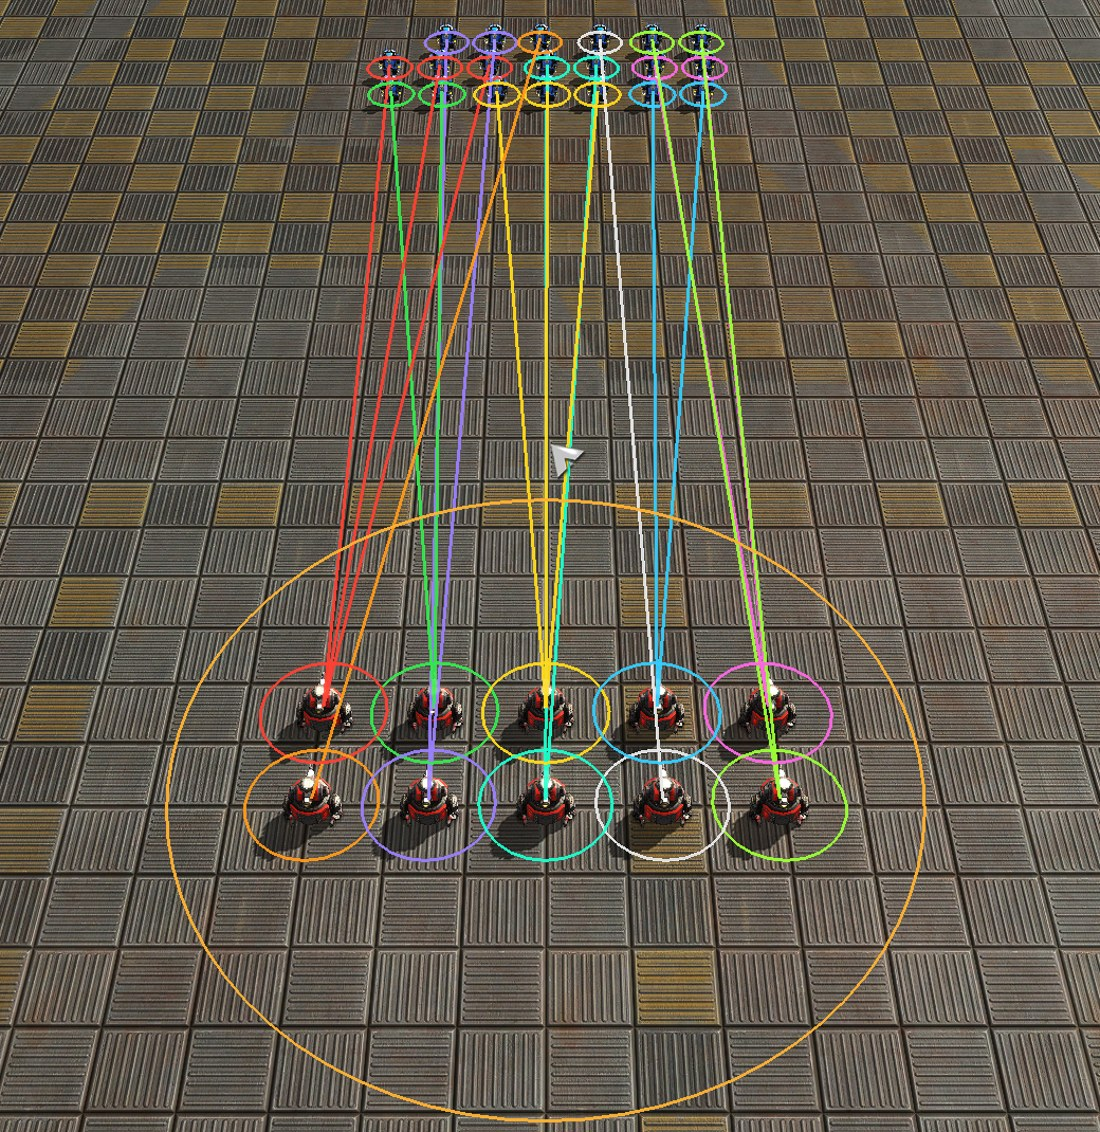
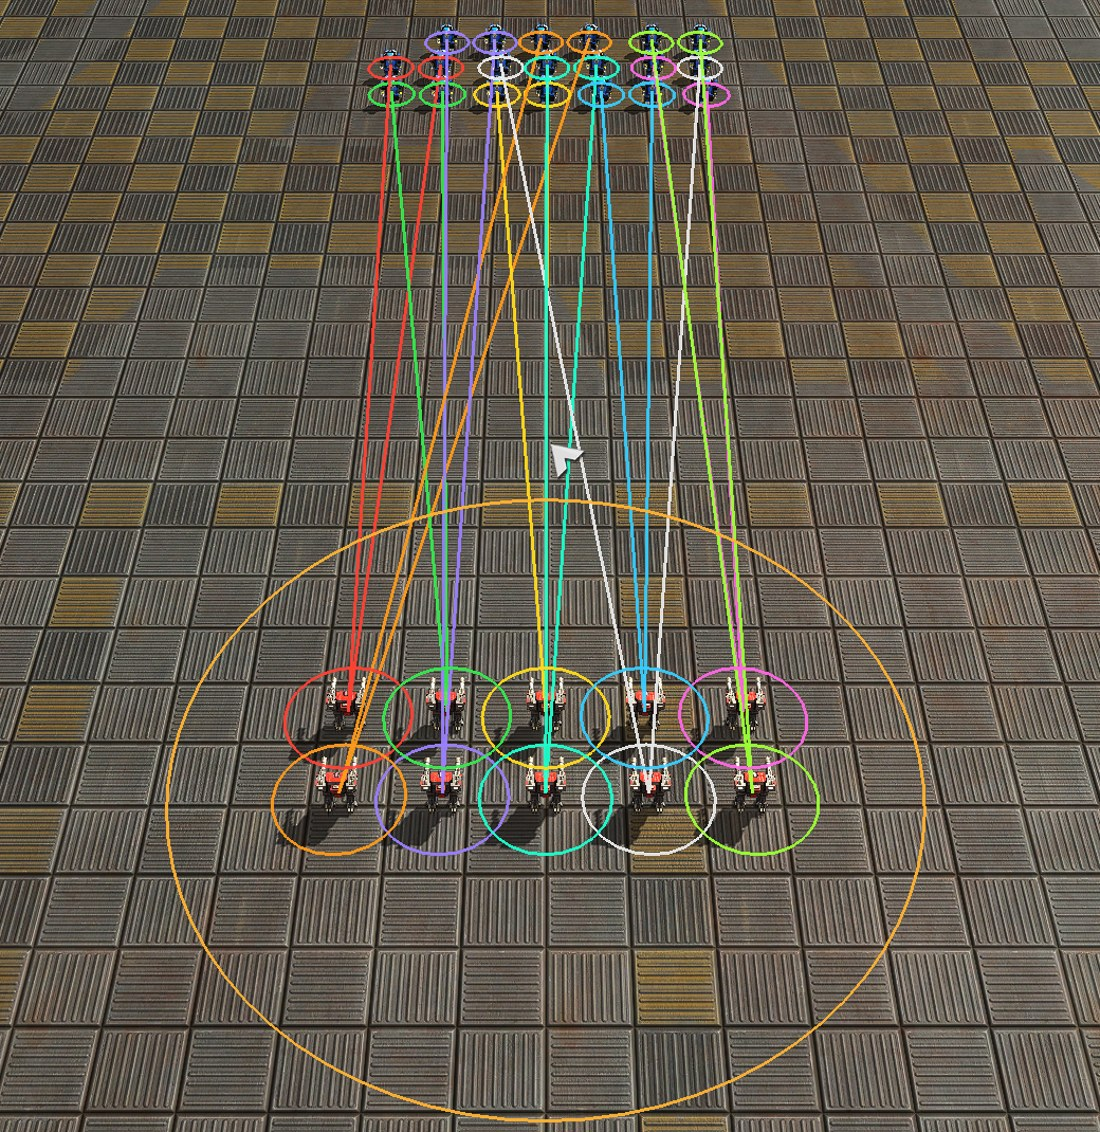
XS split attack: only the damage per second of the units is spread evenly over the enemies (the same share for each, no health, no buffer); the health calculation stays with XF; texts, specs and picture adjusted
Claude-Session: https://claude.ai/code/session_01QeCYKn7fqMf4y4C8NkAq1r

Changed region(s): [[0.2164, 0.0, 0.7727, 0.773]]

diff --git a/specs/blueprinter.md b/specs/blueprinter.md
@@ -91,11 +91,11 @@ Buttons **XL**, **XR**, **XC** (`/bp_carpet [line|rect|circle]`, Ctrl+Alt+K = XL
 
 **Split attack (XS) and focus attack (XF)**, `areaMode = "split"` / `"focus"` of `Shared.newAreaAttack` (`SPLIT_MODES`; circle: press = center, distance = radius). The selected armed units attack the visible enemies in the circle. A snapshot: the targets are those in the circle at the moment of release (`enemiesIn`: `Spring.GetUnitsInCylinder` with `Spring.ENEMY_UNITS`, so only what the player sees; not Gaia; at most `SPLIT_MAX_TARGETS` = 150, the ones nearest to the center; at most `SPLIT_MAX_UNITS` = 300 units). The preview draws the circle and a frame around every target. Both modes share the firepower, the orders and the check; they differ in the plan.
 
-- **Goal:** XS spreads the firepower evenly: every target gets about the damage it needs to die, all at the same time. XF kills as fast as possible: one target after the other, nearest first, with all the units it needs.
+- **Goal:** XS spreads the damage per second of the units evenly over the enemies (health is not looked at): every enemy gets the same share. XF kills as fast as possible: one target after the other, nearest first, with all the units it needs.
 - **Firepower** (`weaponsAgainst`, cached per pair of unit defs): per weapon damage against the armor class of the target (`damages[ud.armorType]`) × projectiles × salvo size = damage of one volley, divided by `reload` = DPS. Beam lasers count like the others. Not counted: paralyzer weapons, stockpile weapons (nukes), the D-Gun (`type == "DGun"`), area damage (it is not added up, it only helps in the game). Anti-air weapons (damage against `vtol` above the default damage) only count against aircraft, all others only against ground targets (`canAttackGround`). A unit that cannot move (speed 0) only counts the weapons that reach the target (`splitDps`); a mobile unit walks into range.
-- **Need of a target:** `hp * SPLIT_BUFFER + 1` (buffer 1.15 = 15 %); a unit takes whole volleys, so a weak target costs a unit one volley.
+- **Need of a target (XF only):** `hp * SPLIT_BUFFER + 1` (buffer 1.15 = 15 %); a unit takes whole volleys, so a weak target costs a unit one volley.
 - **Order of the targets:** mobile enemies first, buildings after them, each group nearest to the center of the attacking group first.
-- **Plan XS** (`splitPlan`): time horizon H = total need / total mean DPS of the units: every unit has H seconds. Target by target the nearest units take volleys (a volley costs `volley / dps` seconds of the unit's time, at least one volley while time is left) until the need is covered; at most `SPLIT_QUEUE` = 8 targets per unit. At the end every unit gets one more target (the nearest uncovered one, else the nearest one it can hit). Everything dies at about time H; with 20 light units against 10 heavy ones every heavy unit gets about two.
+- **Plan XS** (`splitPlan`): share = total DPS of the units (for every unit the mean over the targets it can hit) / number of targets. Target by target (mobile first, nearest to the group first) the nearest free units are taken while the DPS so far plus half of the DPS of the next unit stays within the share (the first unit is always taken); a unit that fits no share goes to the target with the least DPS so far. Every unit gets one more target behind its own (the nearest other one it can hit), so nothing stands idle while an enemy lives. With 20 light units against 10 enemies every enemy gets two, whatever its health. Without a unit for every target (10 units, 13 enemies) the nearest targets get one unit each; the others come with the next plan.
 - **Plan XF** (`focusPlan`): target by target the nearest free units are taken until their damage within `SPLIT_KILL_TIME` = 3 seconds (at least one volley each) covers the need: a weak target takes one unit, a strong one many, and the units start on it. A target for which no free unit is left is uncovered; every unit goes on to the uncovered targets after its own, in the same order, so the whole group concentrates on one target after the other. Free units that nobody needed start on the nearest target. At the end every unit gets one more target it can hit. With 20 light units against 10 heavy ones that need five units each, four targets get five units each and the other six come next.
 - **Orders:** `CMD.ATTACK` on the unit ID of the first target, the rest with the option `shift` (a queue). A unit that has nothing to hit is dropped.
 - **Check** (`splitStep`, every `SPLIT_EVERY` = 30 frames, called from `A:step`): dead and no longer visible targets are forgotten; the attack ends when none is left ("Split attack finished" / "Focus attack finished") or after 10 minutes. A new plan for all units that are left (`splitApply`, current health and positions) is made when a unit has finished its queue while enemies live (both modes) and, with XF, when a target has died (a weak target must not get the whole group). A unit that got another order from the player (first command is not `ATTACK`) or was stopped while one of its targets lives is dropped from the attack.

diff --git a/BluePrinter/README.md b/BluePrinter/README.md
@@ -73,10 +73,10 @@ The button **Q** (Queue order, in the column next to the menu between A and C) d
 Spreads the bombs and shots of all selected units evenly over an area. Select bombers, artillery, rocket launchers or nukes and press one of the buttons next to the menu: **XL** (a line), **XR** (a rectangle) or **XC** (a circle; drag from the center outwards). Then drag the shape on the map. Each unit gets its own target inside the shape: the bombers first form up side by side (for the line: beside it, facing it) and, once all are in position, attack at the same moment as a front; artillery and rockets fire at their target. Right click cancels. Also Ctrl+Alt+K (= XL) or `/bp_carpet [line|rect|circle]`.
 
 ## Split attack and focus attack (experimental)
-Both use the **firepower** of the selected units against the enemies in a circle. Select your armed units, press **XS** or **XF** (below the area attack buttons) and drag a circle from the center outwards over the enemies you see. The damage per second of your units is compared with the health of the enemies (+ 15 %). Mobile enemies come first, buildings after them. Only the enemies in the circle at the moment you release the mouse button count. Area damage, the commander's D-Gun and paralyzer weapons are not counted. A new order for a unit takes it out of the attack. Right click cancels.
+Both use the **firepower** of the selected units against the enemies in a circle. Select your armed units, press **XS** or **XF** (below the area attack buttons) and drag a circle from the center outwards over the enemies you see. Only the enemies in the circle at the moment you release the mouse button count. Area damage, the commander's D-Gun and paralyzer weapons are not counted; the damage per second of a unit is taken against the armor of the enemy. A new order for a unit takes it out of the attack. Right click cancels.
 
-- **XS (split attack)** spreads the firepower **evenly**: every enemy gets about the damage it needs to die, all at the same time (20 light units against 10 heavy ones: about two on each). Units that are not needed keep shooting at the rest. Also `/bp_carpet split`.
-- **XF (focus attack)** kills **as fast as possible**: the nearest enemy first, with as many units as it needs to die in about 3 seconds (a weak one gets a single unit, a strong one many); the units that are left go on to the next one. When an enemy dies the units are assigned again. Also `/bp_carpet focus`.
+- **XS (split attack)** spreads the damage per second of your units **evenly** over the enemies: every enemy gets the same share, whatever its health (20 units against 10 enemies: two on each; the units nearest to an enemy take it). When a unit has nothing left to do the units are assigned again. Also `/bp_carpet split`.
+- **XF (focus attack)** kills **as fast as possible**: mobile enemies first, buildings after them, the nearest first, each with as many units as it needs to die in about 3 seconds (its health + 15 % against the damage per second of your units: a weak one gets a single unit, a strong one many); the units that are left go on to the next one. When an enemy dies the units are assigned again. Also `/bp_carpet focus`.
 
 ## Chat commands
 `/bp_menu` menu on/off (auto-build and radius are buttons in the menu), `/bp_rotate`, `/bp_undo`, `/bp_clear`, `/bp_com`, `/bp_side left|right`, `/bp_scan` (re-read the list), `/bp_create` (blueprint from the selection), `/bp_mode bp|units` (switch the view), `/bp_carpet [line|rect|circle]`, `/bp_spacing <n|+|->`, `/bp_ghost [gl|wg|auto]` (state of the 3D preview).

diff --git a/docs/screenshots.md b/docs/screenshots.md
@@ -18,7 +18,7 @@ Notes on what each picture shows, so they can be retaken after a change of the l
 | `level-editor-capture-the-flag.jpg` | Capture the Flag page **while the test runs** (map "Full Metal Plate 1.7", flat; taken after Start, cut to x 940 ... 3000, y 0 ... 1150): team 0 (blue) with two collection points on the left (thick rings) and three flag points, team 1 (red) with one collection point on the right and three flag points (thin rings); beside every flag three units of the other team (placed outside the capture radius, fire state hold fire); a blue tank has already taken a red flag and drives to a collection point (the pod follows it). The score line at the top shows 0/3 for both teams. |
 | `level-editor-reclaim-the-fame.jpg` | Reclaim the Fame page **while the test runs** (map "Hooked 1.1", taken 30 seconds after Start so that the chat lines have not covered the score line, cut to x 940 ... 3000, y 0 ... 1260): the page with the points factors 100 / 200 / 500, score limit 2000, the four buttons of the builders that score, Stop, the size filter and the tiles of the crystals at the bottom; on the map five crystals (2 small, 1 medium, 2 large) with gold rings, the factor over each ("x1", "x2", "x5"), builders reclaiming the large and a small crystal, the score line at the top. |
 | `level-editor-arena.jpg` | Arena page (button A) after Generate (map "Full Metal Plate 1.7", flat; `test-data\tools\arena_test.ps1 -Shots`, window 2400 x 1300, cut to x 500 ... 2400, y 0 ... 1120): radius 1000, teams 0 to 2 on with a list of units each and count 50, the row of C buttons, the Arena Point (red circle) and the ring of the radius; three armies of 50 units as rectangles at equal angles, facing the point. |
-| `split-attack.jpg` | Split attack (XS), `test-data\tools\arena_test.ps1 -Widget zz_split_shot.lua` with `MODE = "split"` (map "Full Metal Plate 1.7", window 2400 x 1300, interface hidden, scaled to 1600 pixels width): 20 light units (Peewee, blue) against 10 heavier ones (Can, red) 900 Elmo apart, just after the order. The test widget draws one color per enemy with a ring around it, a line from every attacker and a ring of the same color around the attacker (the plan, without the surplus target at the end of each queue); the big circle is the dragged circle. |
+| `split-attack.jpg` | Split attack (XS), `test-data\tools\arena_test.ps1 -Widget zz_split_shot.lua` with `MODE = "split"` (map "Full Metal Plate 1.7", window 2400 x 1300, interface hidden, scaled to 1600 pixels width): 20 light units (Peewee, blue) against 10 heavier ones (Thud, red) 900 Elmo apart; every enemy gets two, just after the order. The test widget draws one color per enemy with a ring around it, a line from every attacker and a ring of the same color around the attacker (the plan, without the surplus target at the end of each queue); the big circle is the dragged circle. |
 | `focus-attack.jpg` | Focus attack (XF), the same widget with `MODE = "focus"` (enemy: Thud): four enemies get five units each (colors), the other six (gray rings) come next. |
 | `arena-lineup.jpg` | The same armies with the interface hidden (whole screen, scaled to 1600 pixels width): shows only the formation. |
 | `level-editor-scenario.jpg` | Scenario page (button I) of a level with a battle: title "Hold the Plateau", roles, tech, AI, win condition, start resources (the picture is from before 2026-10-28; the page has no roles, tech, AI and resources any more, they moved to the page T), grace period 2:30, ID; the map shows the plateau and the Cortex base. |

diff --git a/specs/level-editor.md b/specs/level-editor.md
@@ -92,7 +92,7 @@ Tiles, sorting, renaming, trash and format: [Shared code](shared-code.md), "Tile
 
 ### 4.1 Button column (far right; `headerRects`, rectangles with `side = true`; clicks through `sideAt`)
 
-Top to bottom: **V** (collapse / expand the menu; with a collapsed menu V stays in the corner), **O** (settings), **I** ([scenario info](scenario-builder.md)), **T** ([teams](teams.md)), **?** (help), a free slot, **P** (Place), **G** (Generate), **A** ([Arena](arena.md)), **TD**, **CF**, **RF** (the game modes; green while the mode is on, lighter when its page is open), a free slot, the experimental area attacks **XL**, **XR**, **XC** (line, rectangle, circle; `Shared.newAreaAttack`, [Shared code](shared-code.md); the editor ends other modes when one is armed and the other way round), a free slot, **XS** (split attack: the firepower of the selected units is spread evenly over the visible enemies in a circle) and **XF** (focus attack: they kill the enemies one after the other; [BluePrinter](blueprinter.md), "Area attacks"; `areaMode = "split"` / `"focus"`), a free slot, **FX** / **FD** (rectangle: buildings become indestructible / destructible again; `delMode = "fix"` or `"unfix"`, `led|fix|x1|z1|x2|z2|on`, one history step, operation `fix`; only buildings, i.e. units with speed 0).
+Top to bottom: **V** (collapse / expand the menu; with a collapsed menu V stays in the corner), **O** (settings), **I** ([scenario info](scenario-builder.md)), **T** ([teams](teams.md)), **?** (help), a free slot, **P** (Place), **G** (Generate), **A** ([Arena](arena.md)), **TD**, **CF**, **RF** (the game modes; green while the mode is on, lighter when its page is open), a free slot, the experimental area attacks **XL**, **XR**, **XC** (line, rectangle, circle; `Shared.newAreaAttack`, [Shared code](shared-code.md); the editor ends other modes when one is armed and the other way round), a free slot, **XS** (split attack: the damage per second of the selected units is spread evenly over the visible enemies in a circle) and **XF** (focus attack: they kill the enemies one after the other; [BluePrinter](blueprinter.md), "Area attacks"; `areaMode = "split"` / `"focus"`), a free slot, **FX** / **FD** (rectangle: buildings become indestructible / destructible again; `delMode = "fix"` or `"unfix"`, `led|fix|x1|z1|x2|z2|on`, one history step, operation `fix`; only buildings, i.e. units with speed 0).
 
 The Place / Generate menus are `kind = "top"` rectangles; `headerRowCount` knows only the rows of the menu.
 

diff --git a/README.md b/README.md
@@ -108,17 +108,17 @@ More in [LAN Play](docs/lan-play.md).
 
 More in the [BluePrinter usage](docs/blueprinter-usage.md#area-attacks-experimental).
 
-**Split attack and focus attack**: use the *firepower* of the selected units against the enemies in a circle. Select armed units, press the button, drag a circle over the enemies you see. The damage per second of your units is compared with the health of the enemies (+ 15 %).
+**Split attack and focus attack**: use the *firepower* of the selected units against the enemies in a circle. Select armed units, press the button, drag a circle over the enemies you see. The damage per second of your units is given out to the enemies.
 
-- **XS** spreads the firepower **evenly**: every enemy gets about the damage it needs to die, all at the same time
-- **XF** kills **as fast as possible**: the nearest enemy first, with as many units as it needs; the others go on to the next one
+- **XS** spreads the damage per second **evenly**: every enemy gets the same share, whatever its health (20 units against 10 enemies: two on each)
+- **XF** kills **as fast as possible**: the nearest enemy first, with as many units as it needs to die (its health + 15 % against the damage per second of your units); the others go on to the next one
 
 <p>
-<img src="docs/split-attack.jpg" alt="Split attack (XS): 20 light units against 10 heavier ones; every enemy has a color, the units aimed at it carry the same color (two or three per enemy)" width="365">
+<img src="docs/split-attack.jpg" alt="Split attack (XS): 20 light units against 10 heavier ones; every enemy has a color, the units aimed at it carry the same color (two on each)" width="365">
 <img src="docs/focus-attack.jpg" alt="Focus attack (XF): four enemies get five units each, the gray ones come next" width="365">
 </p>
 
-*Left: XS spreads the units evenly, two or three on each enemy. Right: XF puts five units on each of the four nearest enemies, the gray ones come next.*
+*Left: XS spreads the units evenly, two on each enemy. Right: XF puts five units on each of the four nearest enemies, the gray ones come next.*
 
 More in the [BluePrinter usage](docs/blueprinter-usage.md#split-attack-and-focus-attack-experimental).
 

diff --git a/docs/blueprinter-usage.md b/docs/blueprinter-usage.md
@@ -46,14 +46,14 @@ Spread the shots or bombs of all selected units over an area (bombers, artillery
 Use the firepower of the selected units against the enemies in a circle.
 
 - Select armed units, press **XS** or **XF** (below the area attack buttons), drag a circle from the center outwards over the enemies you see
-- **XS (split attack)** spreads the firepower **evenly**: every enemy gets about the damage it needs to die (health + 15 %), all at the same time
-- **XF (focus attack)** kills **as fast as possible**: nearest enemy first, with as many units as it needs; the others go on to the next one
-- Mobile enemies first, buildings after them; units that are not needed keep shooting at what is left; when all enemies in the circle are dead your units stop
+- **XS (split attack)** spreads the damage per second of your units **evenly** over the enemies: every enemy gets the same share, whatever its health
+- **XF (focus attack)** kills **as fast as possible**: mobile enemies first, buildings after them, the nearest first, with as many units as it needs to die (its health + 15 %); the others go on to the next one
+- When all enemies in the circle are dead your units stop; when an enemy dies or a unit has nothing left to do, the units are assigned again
 - Only the enemies in the circle at the moment you release the mouse button count; right click cancels
 
 ![Split attack](split-attack.jpg)
 
-*XS: 20 light units against 10 heavier ones, just after the order: every enemy has a color and the units aimed at it carry the same color, two or three on each. (The colors were drawn for the picture; in the game the selected units show their orders as thin lines.)*
+*XS: 20 light units against 10 heavier ones, just after the order: every enemy has a color and the units aimed at it carry the same color, two on each. (The colors were drawn for the picture; in the game the selected units show their orders as thin lines.)*
 
 ![Focus attack](focus-attack.jpg)
 
